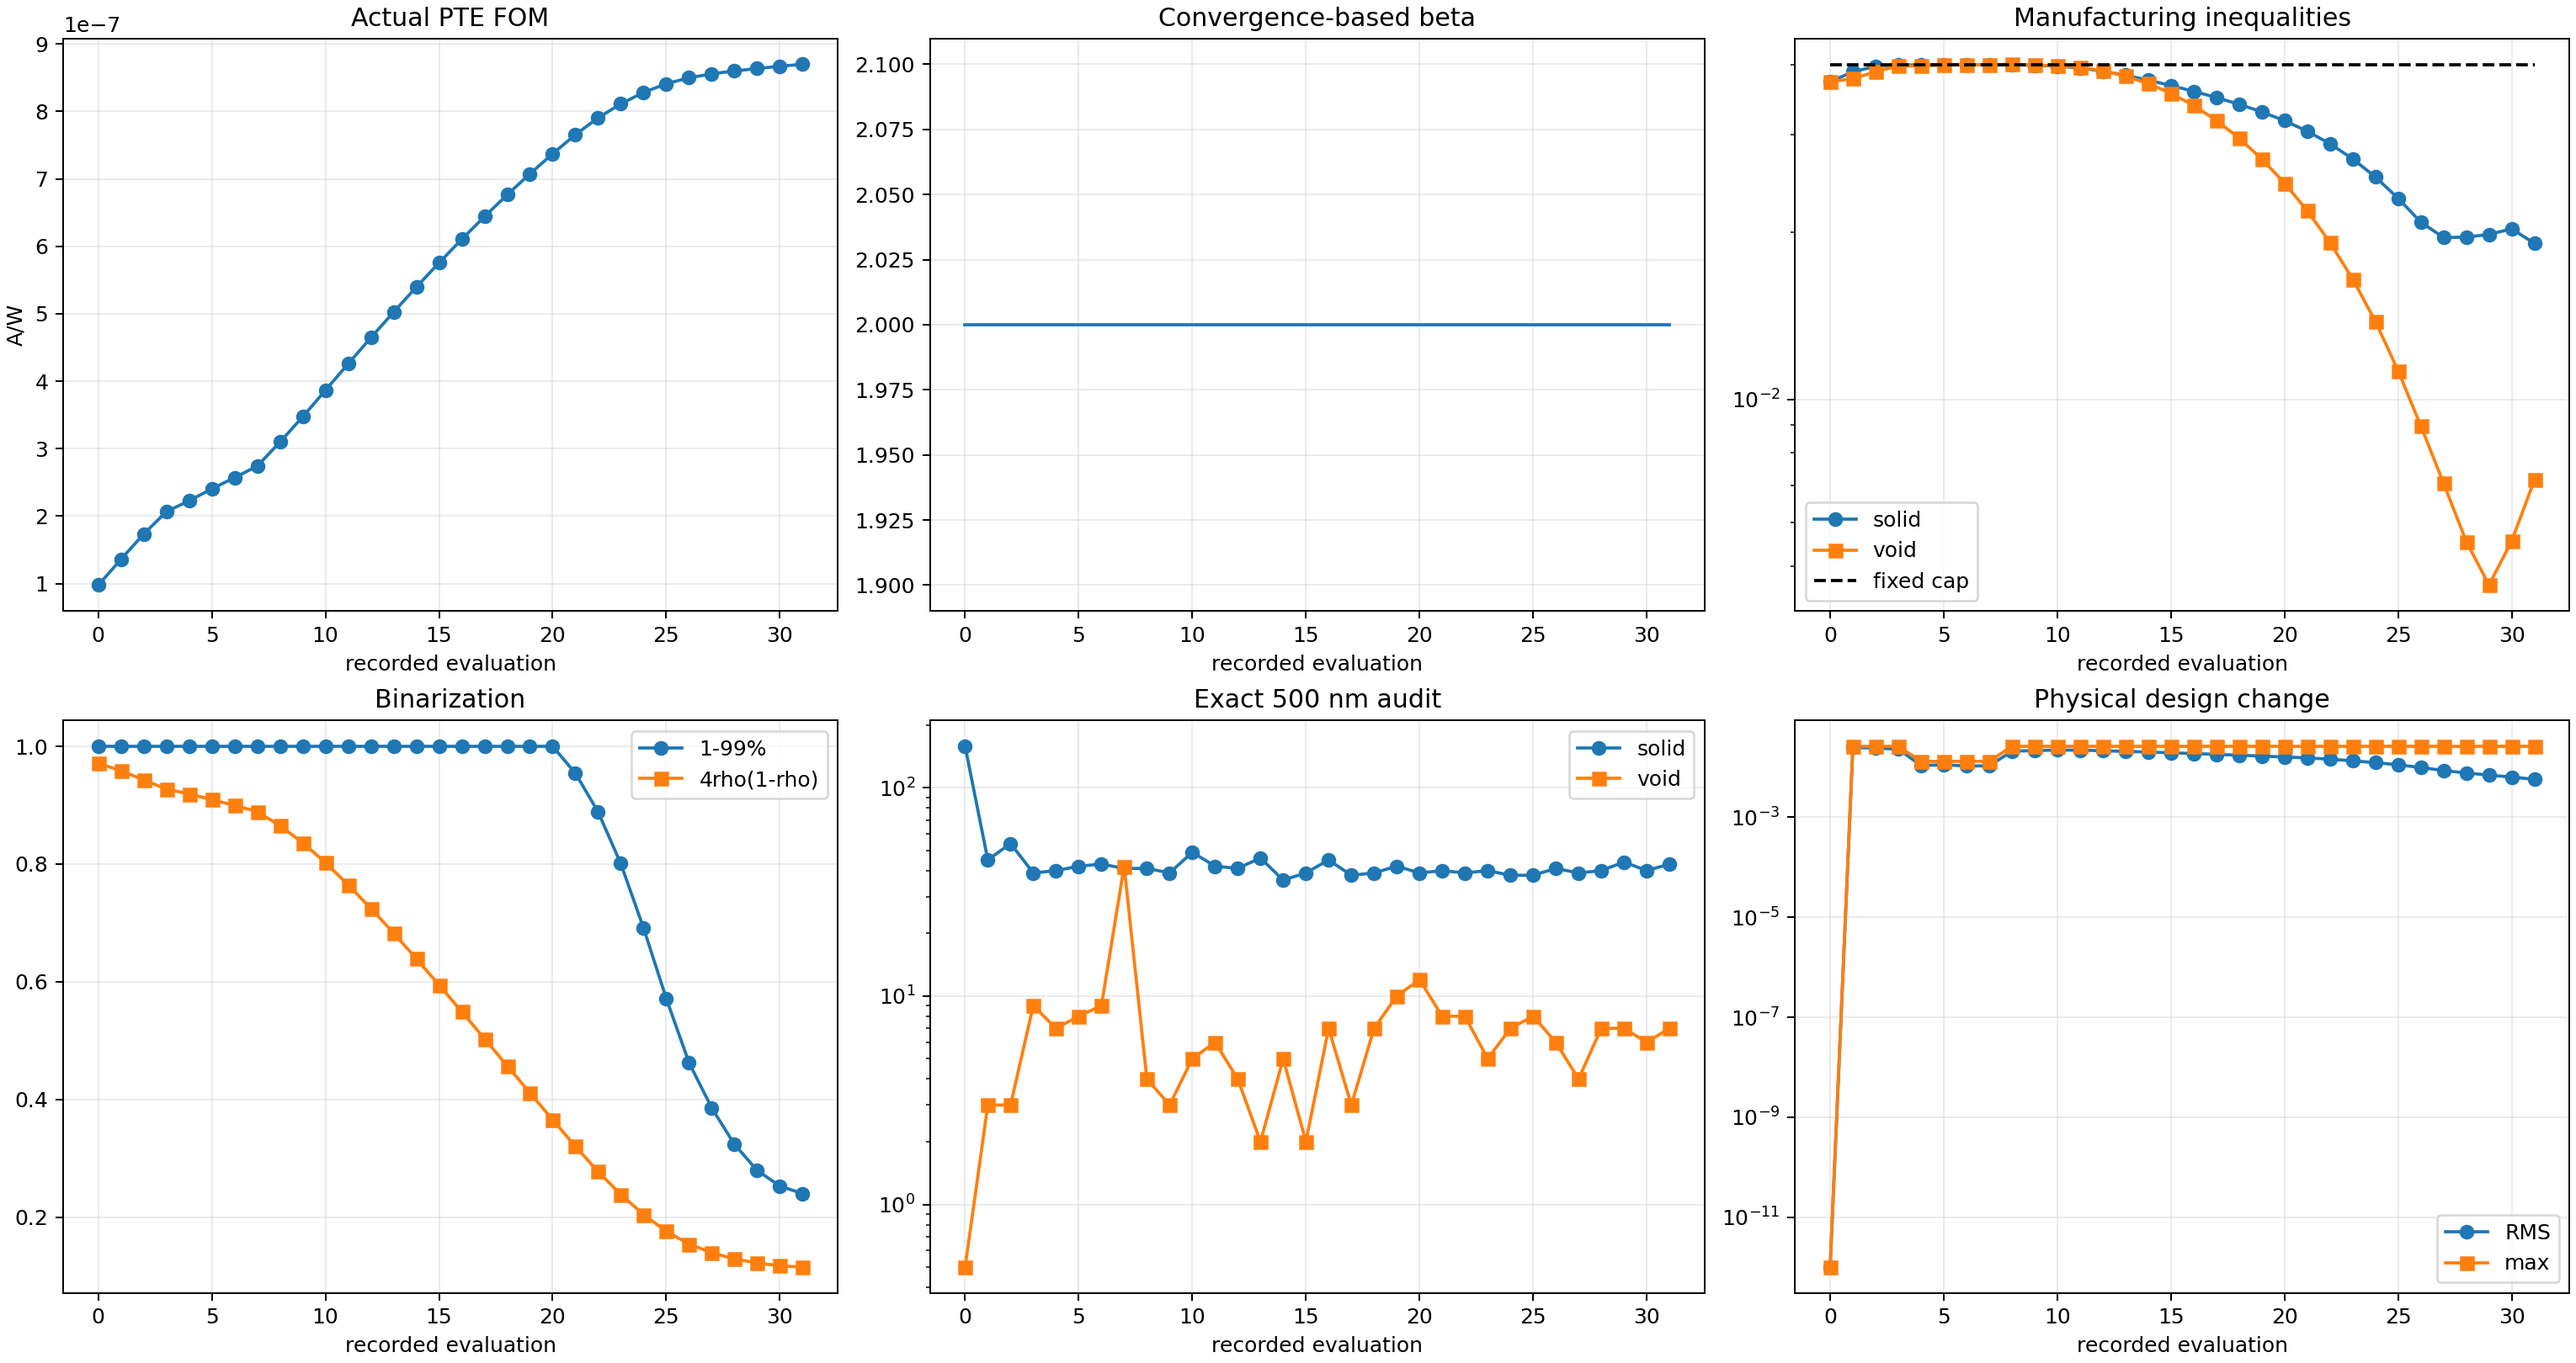
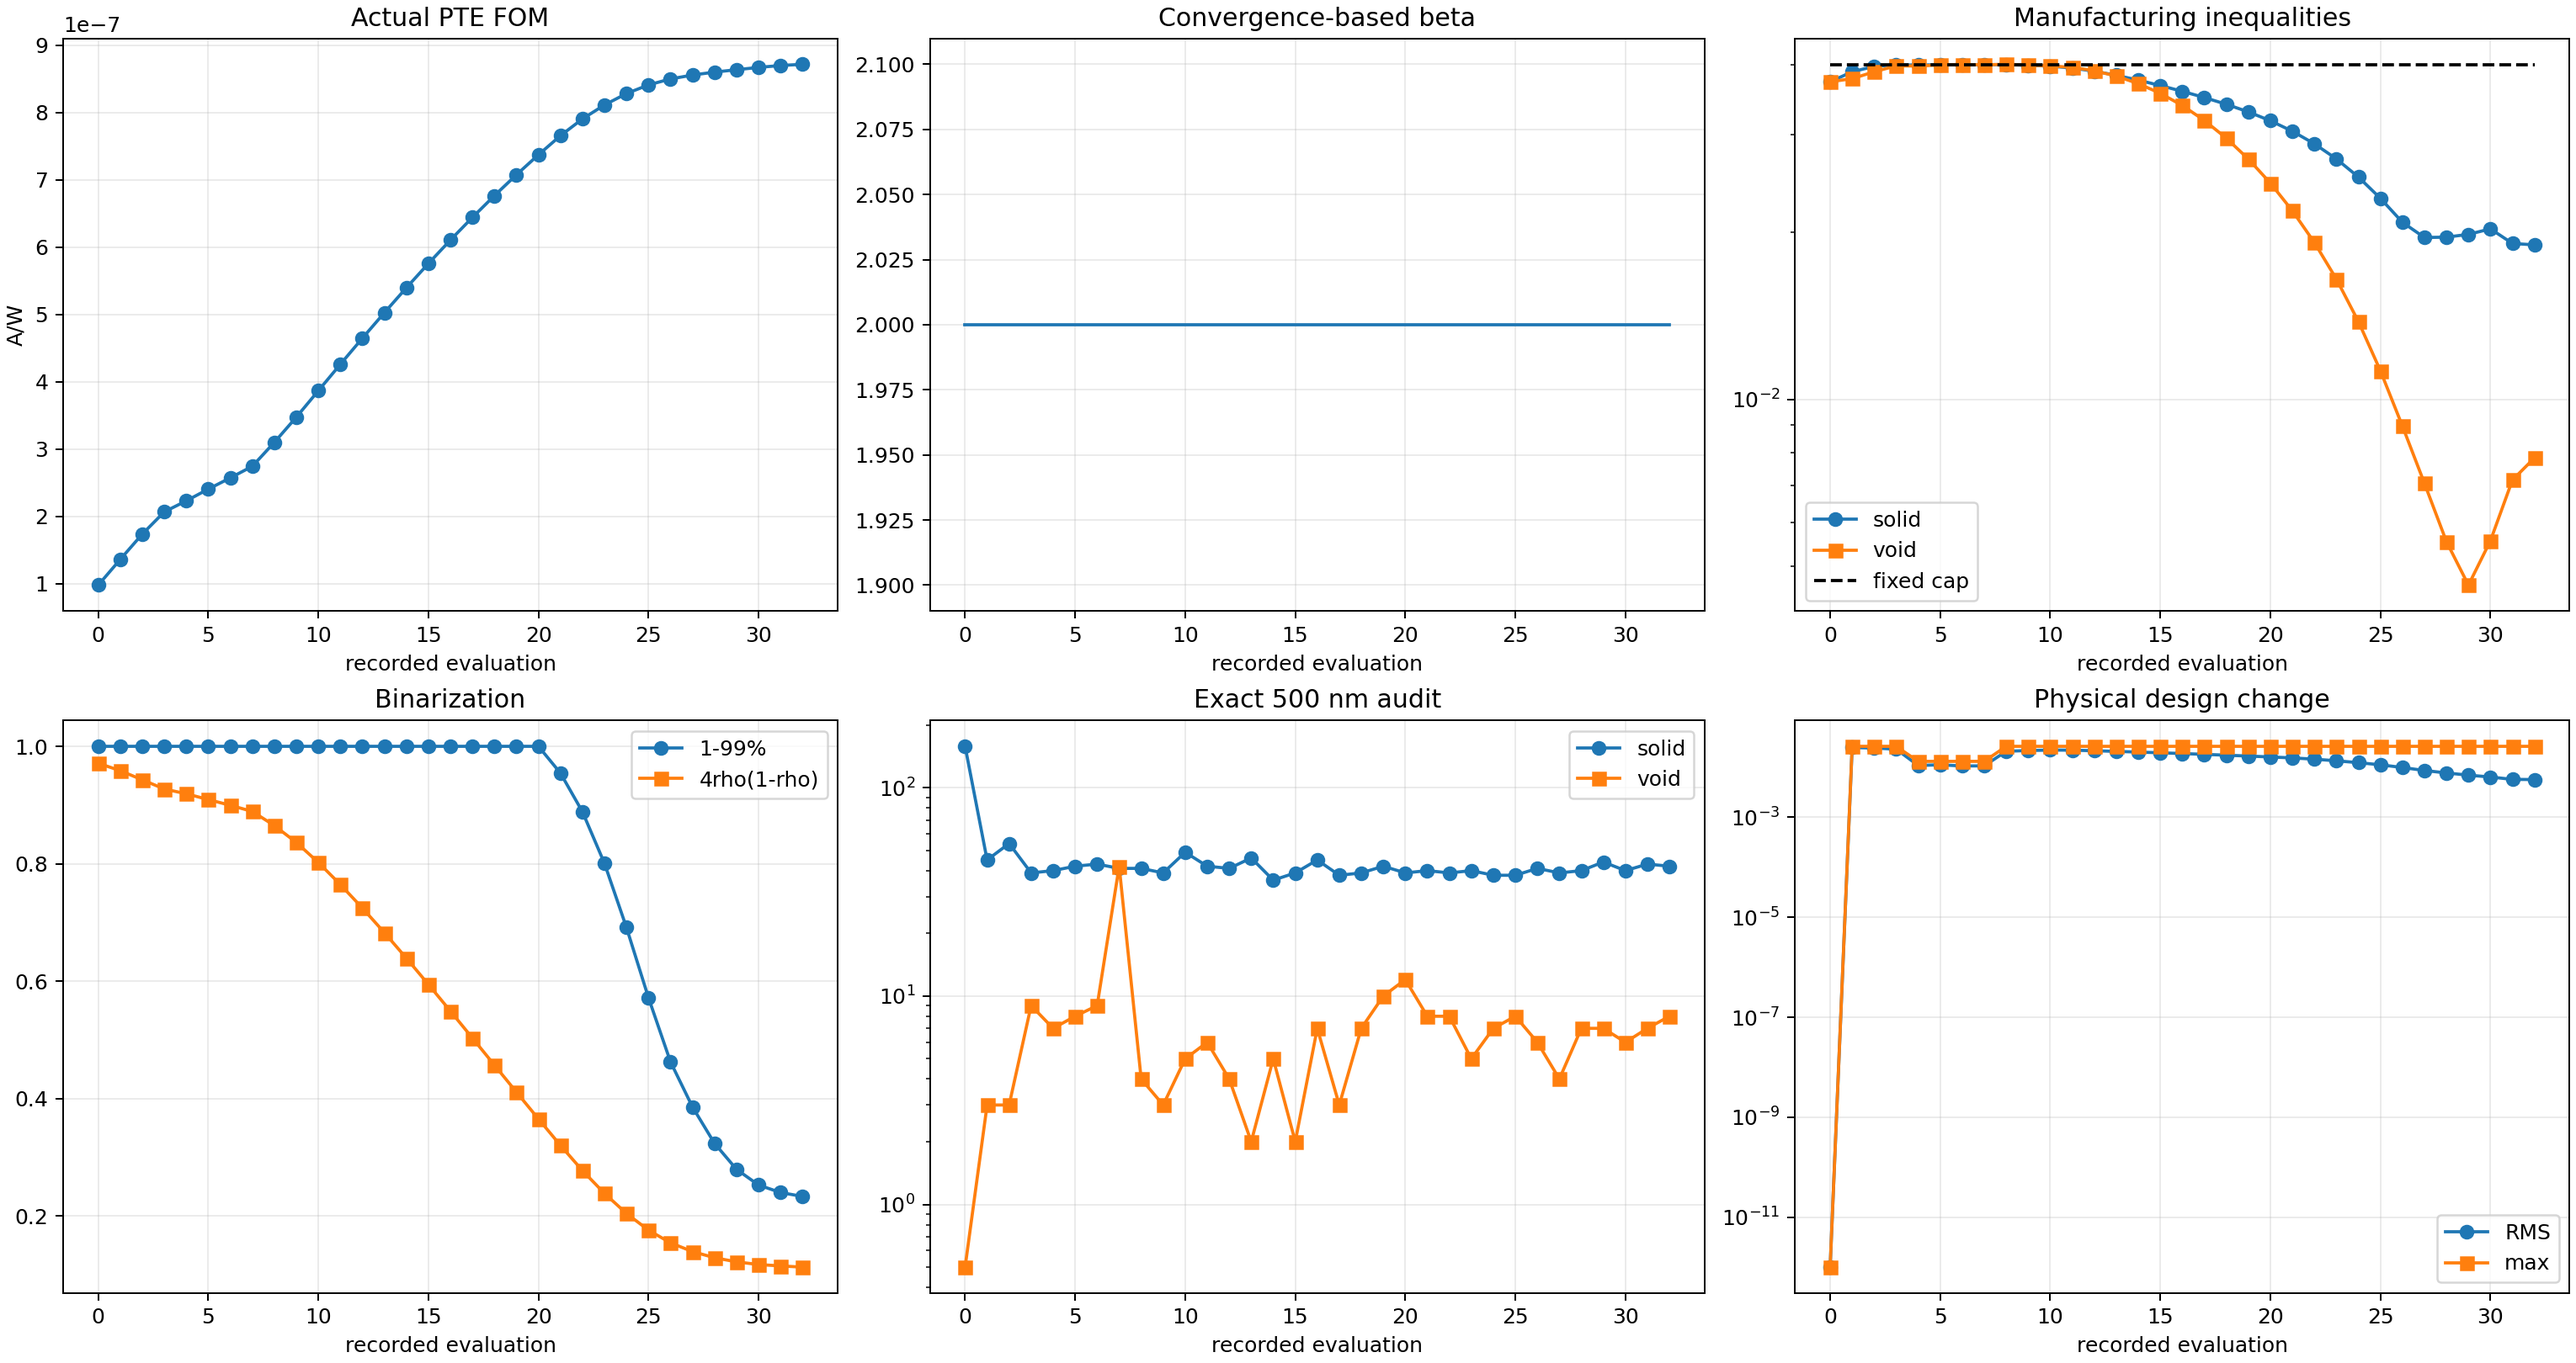
Record Run 003 run003_b002_s032_g032_accepted_mma

diff --git a/photothermal_pte/optimization_runs/run_003_gaussian10_w8p5_current_max_converged/results/OPTIMIZATION_REPORT.md b/photothermal_pte/optimization_runs/run_003_gaussian10_w8p5_current_max_converged/results/OPTIMIZATION_REPORT.md
@@ -2,10 +2,10 @@
 
 Status: `RUNNING_CONVERGENCE_BASED_CONSTRAINED_BETA_CONTINUATION`
 
-Current stage: beta=2, accepted stage iteration=31, global iteration=31.
+Current stage: beta=2, accepted stage iteration=32, global iteration=32.
 
-Actual FOM: `8.697089597867e-07 A/W`. Fixed-cap solid/void constraints: `1.908203e-02` / `7.153382e-03` with cap `4.000000e-02`.
+Actual FOM: `8.714519085122e-07 A/W`. Fixed-cap solid/void constraints: `1.897236e-02` / `7.839720e-03` with cap `4.000000e-02`.
 
-Exact 500 nm bad cells: solid `43`, void `7`. Stage convergence: `False` (recent FOM/density changes have not plateaued).
+Exact 500 nm bad cells: solid `42`, void `8`. Stage convergence: `False` (recent FOM/density changes have not plateaued).
 
 Beta is promoted only after fixed-inequality feasibility and a four-update FOM/design plateau; it is never promoted after one nominal update.
